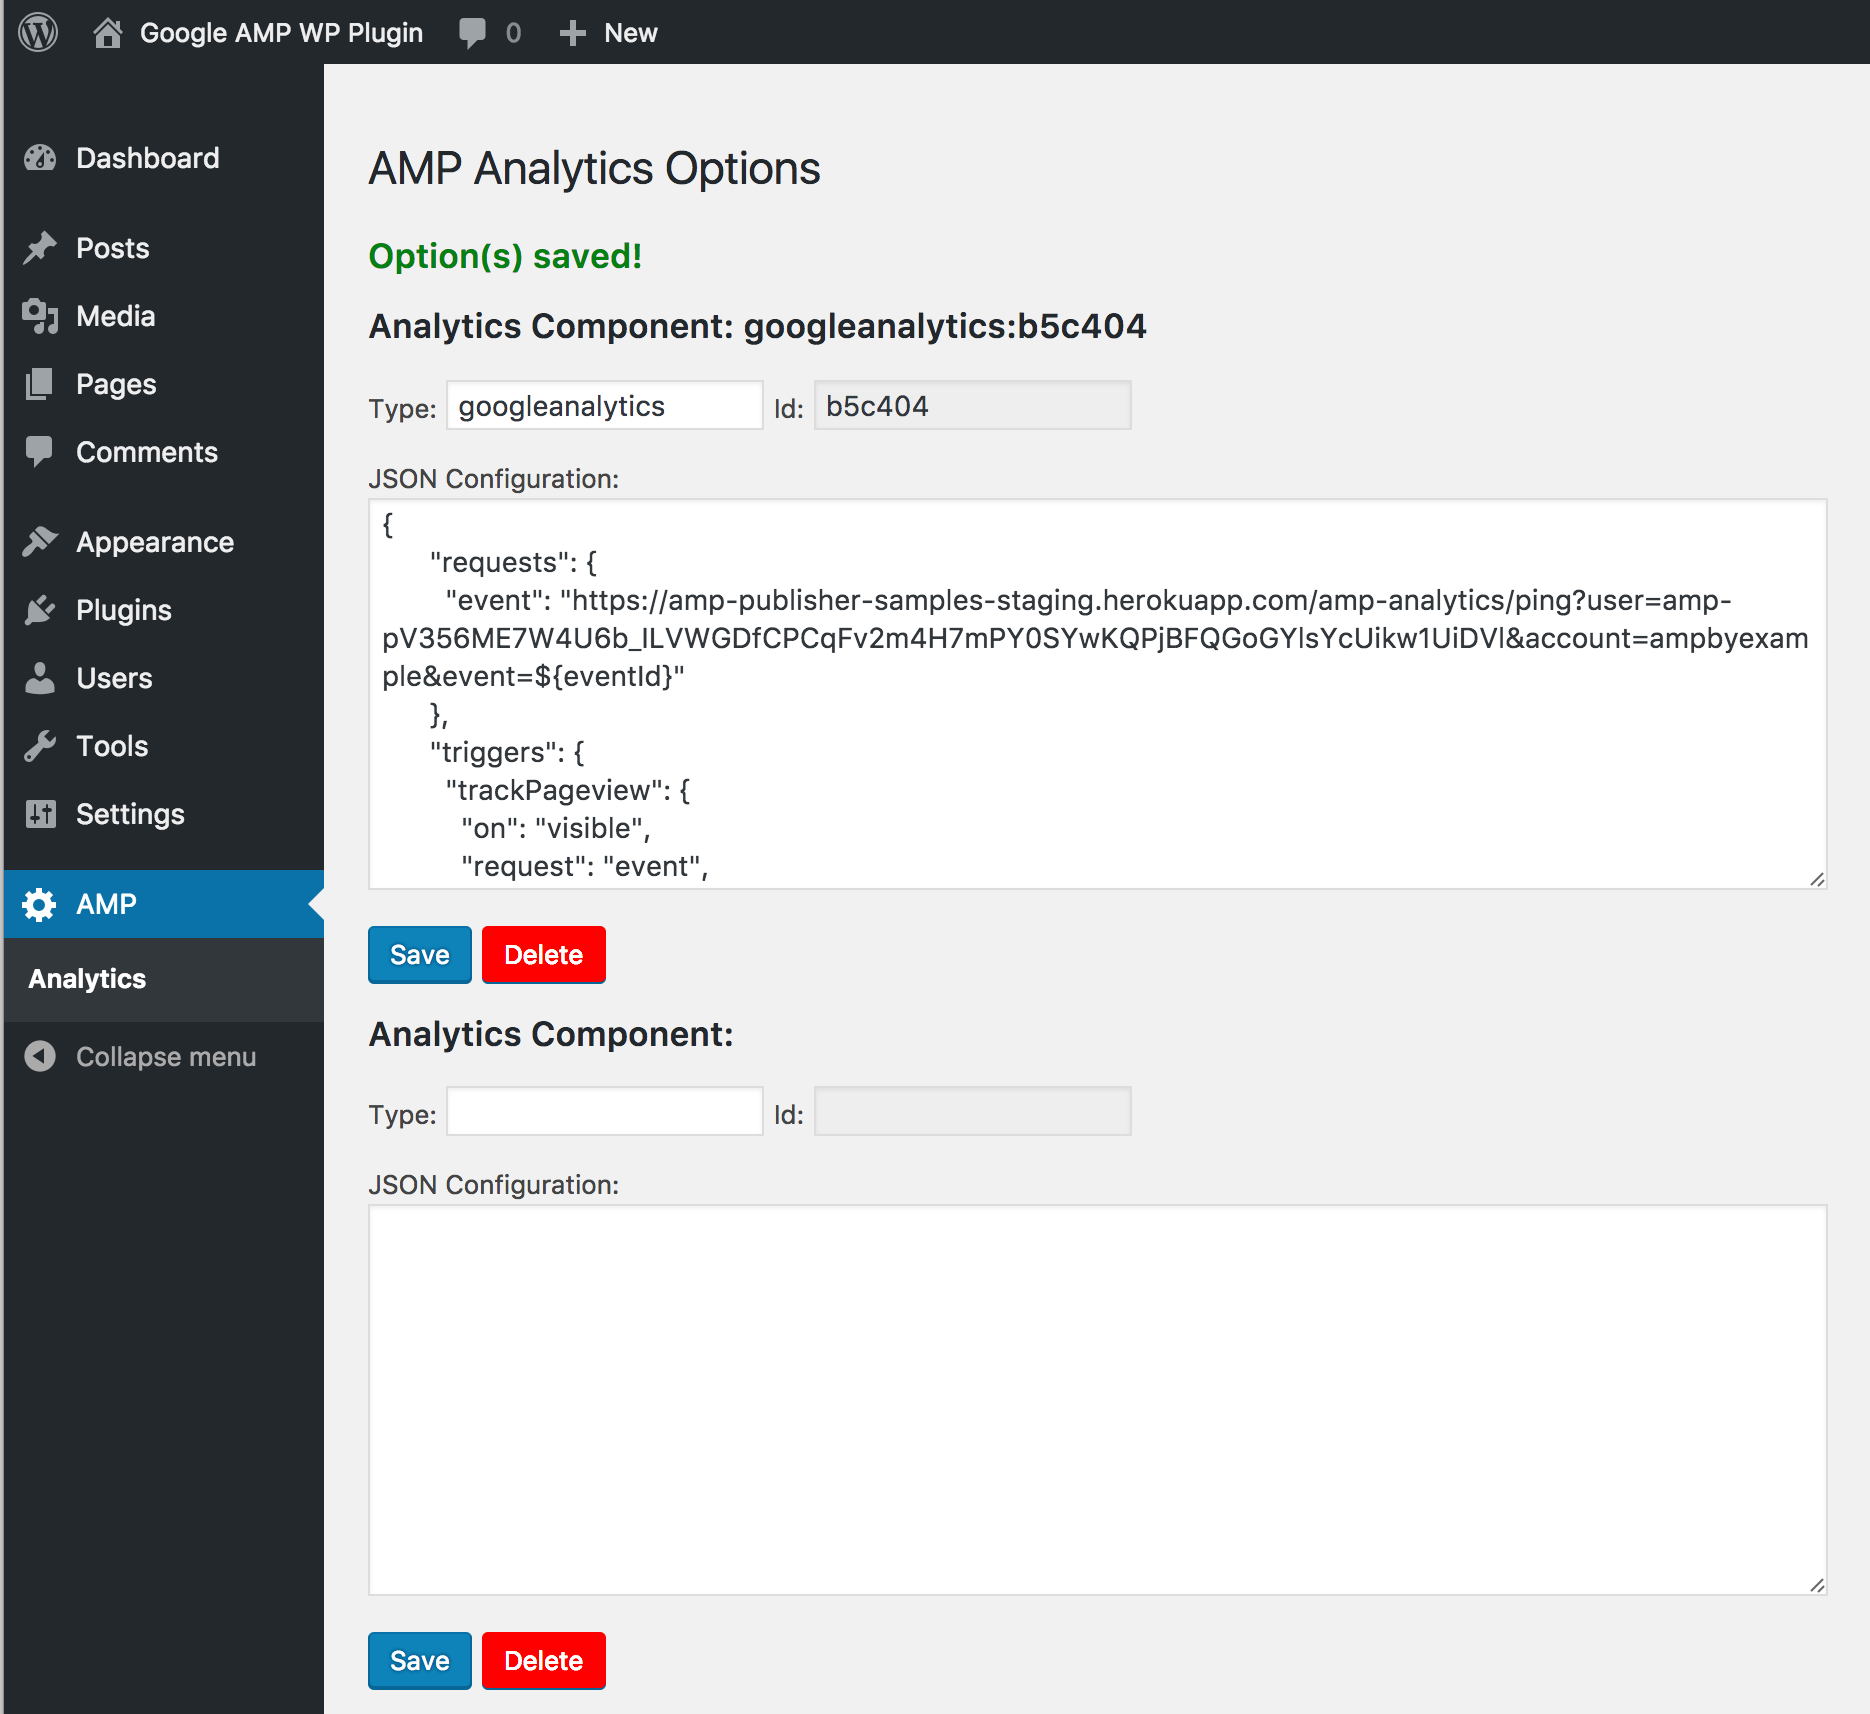
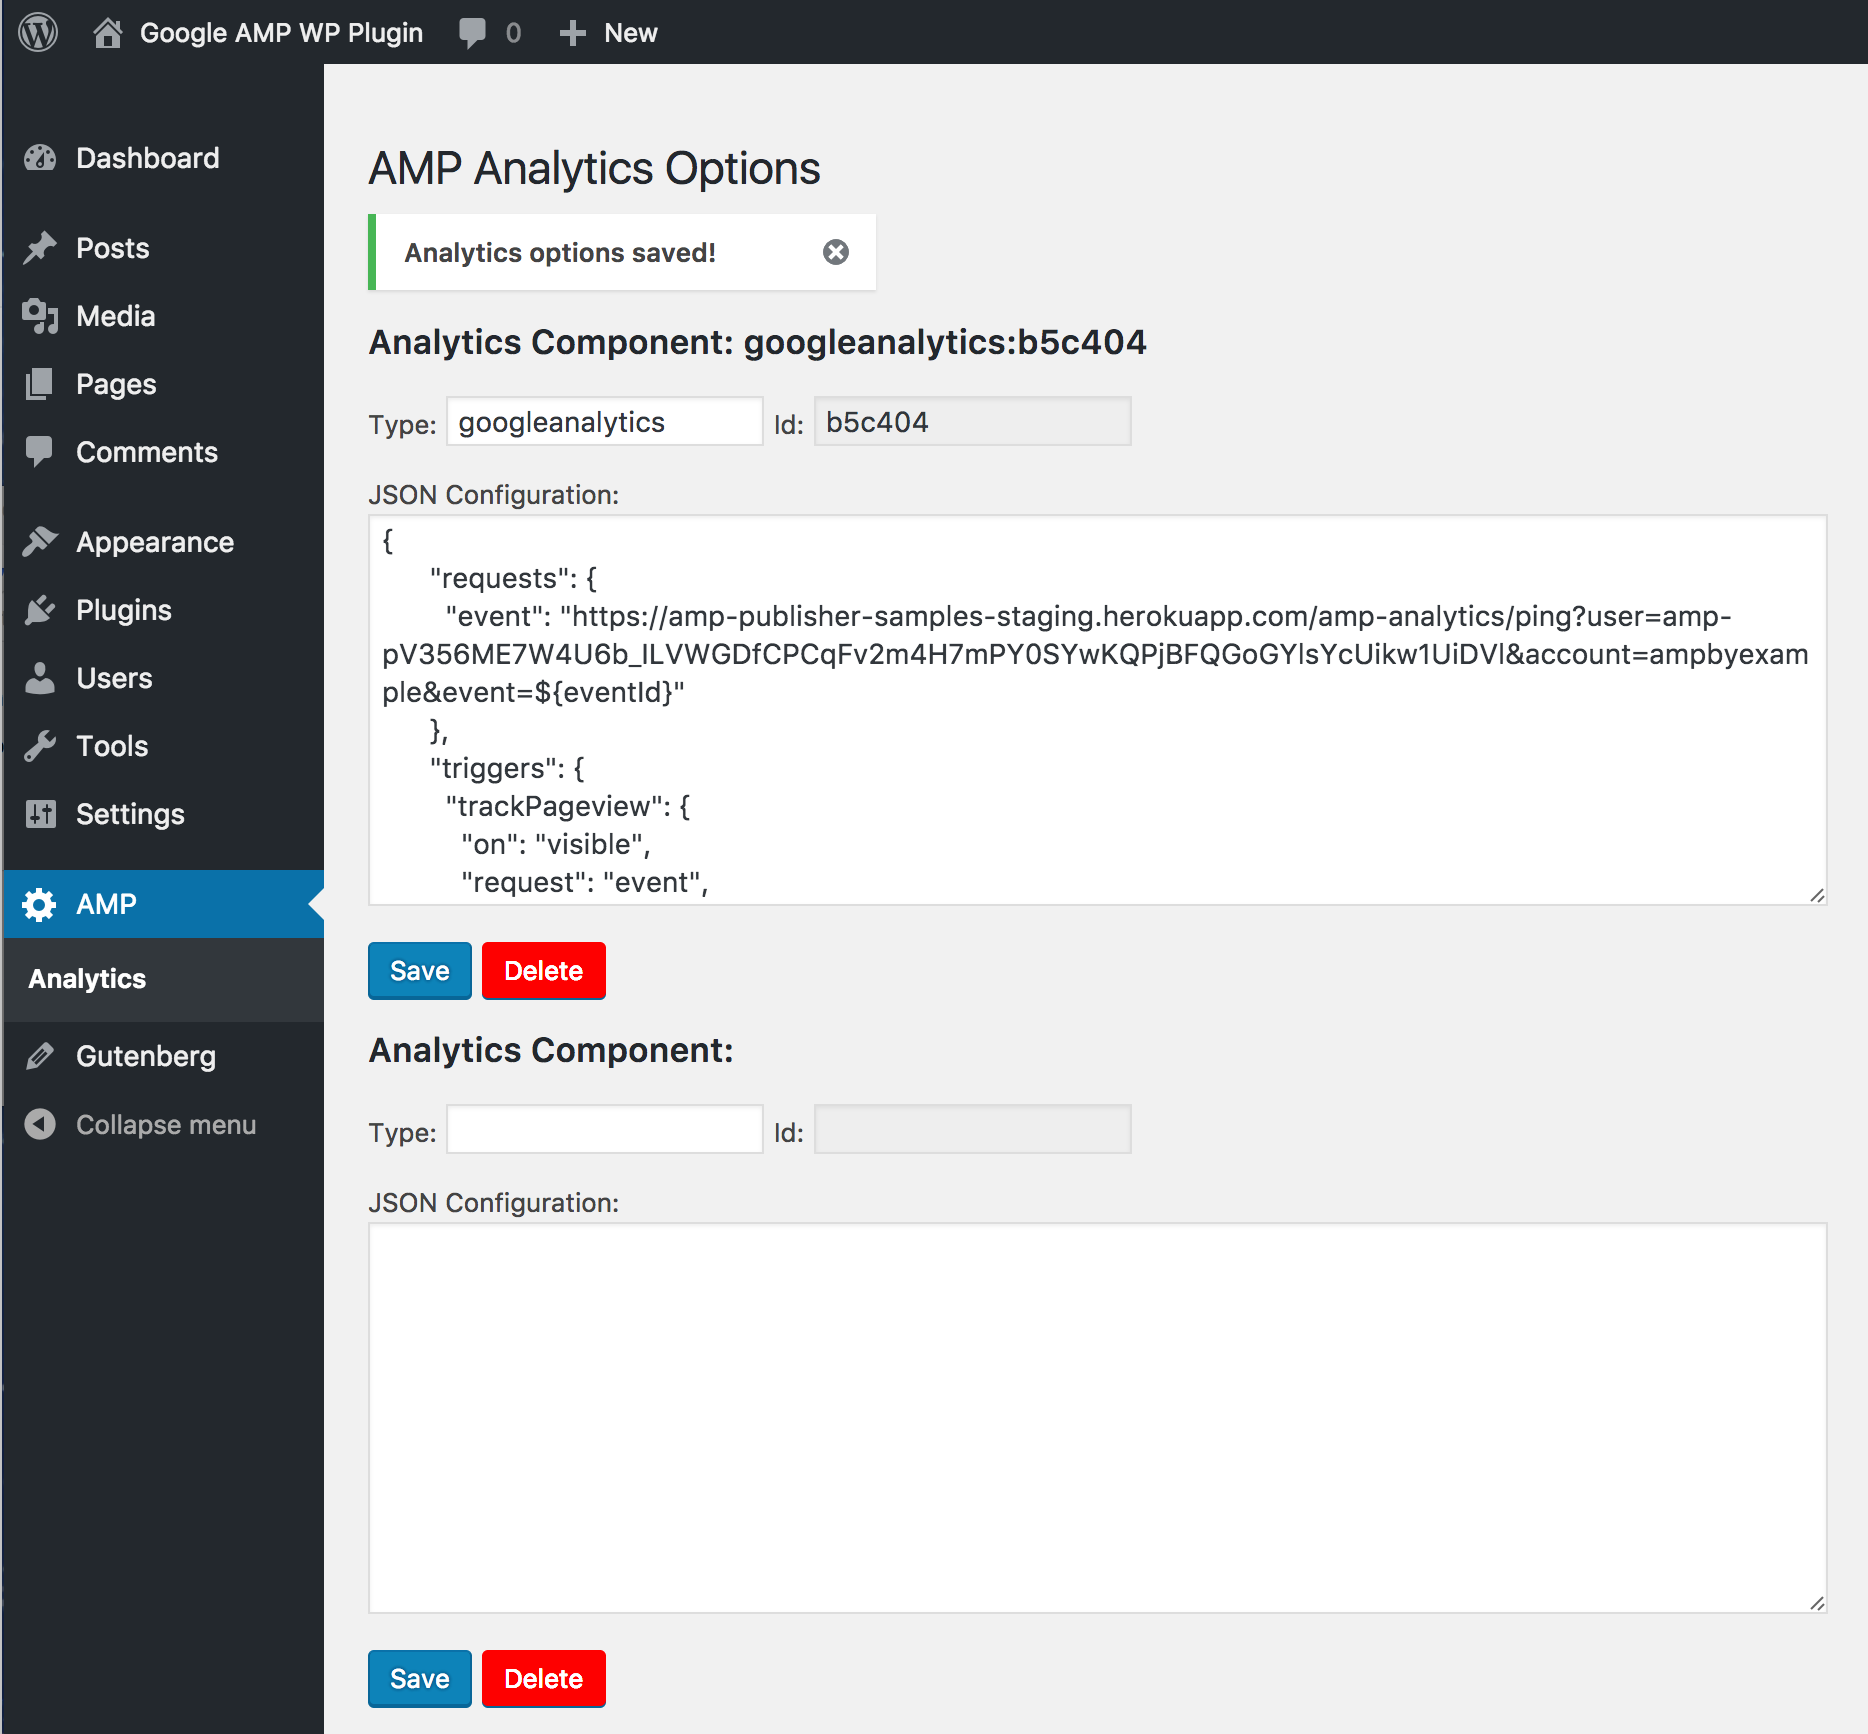
Address Mo's latest review

diff --git a/includes/options/views/class-amp-analytics-options-submenu-page.php b/includes/options/views/class-amp-analytics-options-submenu-page.php
@@ -1,34 +1,34 @@
 <?php
 
-require_once( AMP__DIR__ . '/includes/options/views/class-amp-analytics-options-serializer.php' );
+require_once( AMP__DIR__ . '/includes/options/views/class-amp-options-manager.php' );
 
 class AMP_Analytics_Options_Submenu_Page {
 
-	private function render_option($id = "", $type = "", $config = "") {
+	private function render_option( $id = "", $type = "", $config = "" ) {
 			?>
 			<div class="analytics-data-container">
-				<form method="post" action="<?php echo esc_html( admin_url( 'admin-post.php' ) ); ?>">
-					<h2><?php echo __( 'Analytics Component', 'amp' ) ?>: <?php echo ($type ? $type . ':' : '') . substr($id, -6) ?></h2>
+				<form method="post" action="<?php echo esc_url( admin_url( 'admin-post.php' ) ); ?>">
+					<h2><?php echo __( 'Analytics Component', 'amp' ) ?>: <?php echo ($type ? esc_html( $type ) . ':' : '') . substr( esc_html( $id ), -6) ?></h2>
 					<div class="options">
 						<p>
 							<label><?php echo __( 'Type', 'amp' ) ?>: </label>
 							<input class="option-input" type="text" name=vendor-type value="<?php echo esc_attr( $type ); ?>" />
 							<label><?php echo __( 'Id', 'amp' ) ?>: </label>
-							<input type="text" name=id value="<?php echo substr(esc_attr( $id ), -6); ?>" readonly />
-                            <input type="hidden" name=id-value value="<?php echo $id; ?>" />
+							<input type="text" name=id value="<?php echo esc_attr( substr( $id, -6) ); ?>" readonly />
+                            <input type="hidden" name=id-value value="<?php echo esc_attr( $id ); ?>" />
 						</p>
 						<p>
 							<label><?php echo __( 'JSON Configuration', 'amp' ) ?>:</label>
 							<br />
 							<textarea rows="10" cols="100" name="config"><?php echo esc_textarea( $config ); ?></textarea>
 						</p>
-						<input type="hidden" name="action" value="analytics_options">
+						<input type="hidden" name="action" value="amp_analytics_options">
 					</div><!-- #analytics-data-container -->
 				<p>
 			<?php
-			    wp_nonce_field( 'analytics-options', 'analytics-options');
-				submit_button('Save', 'primary', 'save', false);
-				submit_button('Delete', 'delete button-primary', 'delete', false);
+			    wp_nonce_field( 'analytics-options', 'analytics-options' );
+				submit_button( 'Save', 'primary', 'save', false );
+				submit_button( 'Delete', 'delete button-primary', 'delete', false );
 				?>
 				</p>
 				</form>
@@ -47,11 +47,21 @@ class AMP_Analytics_Options_Submenu_Page {
 		if ( isset( $_GET['valid'] ) ) {
             if ( ! esc_attr( $_GET['valid'] ) ) {
                 ?>
-                <h3 style='color:red'><?php echo 'Action not taken: invalid input!'; ?></h3>
+                <div class="amp-analytics-options notice notice-error is-dismissible">
+                    <p><strong>Action not taken: invalid input!</strong></p>
+                    <button type="button" class="notice-dismiss">
+                        <span class="screen-reader-text">Dismiss this notice.</span>
+                    </button>
+                </div>
                 <?php
             } else {
                 ?>
-                <h3 style='color:green'><?php echo 'Option(s) saved!'; ?></h3>
+                <div class="amp-analytics-options notice notice-success is-dismissible">
+                    <p><strong>Analytics options saved!</strong></p>
+                    <button type="button" class="notice-dismiss">
+                        <span class="screen-reader-text">Dismiss this notice.</span>
+                    </button>
+                </div>
                 <?php
             }
             unset( $_GET['valid'] );
@@ -64,7 +74,7 @@ class AMP_Analytics_Options_Submenu_Page {
 
 		$amp_options = get_option('amp-options');
 		if ( $amp_options ) {
-			$analytics_options = $amp_options[ 'amp-analytics'];
+			$analytics_options = $amp_options['amp-analytics'];
 		}
 		if ( $analytics_options ) {
 			foreach ( $analytics_options as $option ) {

diff --git a/includes/options/views/class-amp-options-manager.php b/includes/options/views/class-amp-options-manager.php
@@ -2,52 +2,59 @@
 
 require_once( AMP__DIR__ . '/includes/utils/class-amp-html-utils.php' );
 
-class Analytics_Options_Serializer {
-
+class AMP_Options_Manager {
+	
 	public static function save() {
-
-		if ( is_admin() ) {
-			// Request must come from user with right capabilities
-			if ( ! current_user_can( 'administrator' ) ) {
-				wp_die( 'Sorry, you do not have the necessary permissions to perform this action' );
-			}
-			// Ensure request is coming from analytics option form
-			check_admin_referer( 'analytics-options', 'analytics-options' );
+		// Request must come from user with right capabilities
+		if ( ! current_user_can( 'manage_options' ) ) {
+			wp_die( 'Sorry, you do not have the necessary permissions to perform this action' );
 		}
+		// Ensure request is coming from analytics option form
+		check_admin_referer( 'analytics-options', 'analytics-options' );
 
+		$status = AMP_Options_Manager::submit( $_POST );
+		
+		// Redirect to keep the user in the analytics options page
+		// Wrap in is_admin() to enable phpunit tests to exercise this code
+		wp_redirect( admin_url( 'admin.php?page=amp-analytics-options&valid=' . $status  ) );
+		exit;
+	}
+	
+	public static function submit( $data) {
+		
 		$option_name = 'amp-analytics';
-
+		
 		// Validate JSON configuration is valid
-		$is_valid_json = AMP_HTML_Utils::valid_json( stripslashes($_POST['config'] ) );
-
+		$is_valid_json = AMP_HTML_Utils::valid_json( stripslashes( $_POST['config'] ) );
+		
 		// Check save/delete pre-conditions and proceed if correct
 		if ( ! ( empty( $_POST['vendor-type'] ) || empty( $_POST['config'] ) ) &&
-				$is_valid_json ) {
-
+		     $is_valid_json ) {
+			
 			if ( empty( $_POST['id-value'] ) ) {
 				$_POST['id-value'] = md5( $_POST['config'] );
 			}
-
+			
 			// Prepare the data for the new analytics setting
 			$new_analytics_option = array(
-				$_POST['id-value'],
-				sanitize_key($_POST['vendor-type']),
+				sanitize_key( $_POST['id-value'] ),
+				sanitize_key( $_POST['vendor-type'] ),
 				stripslashes( $_POST['config'] )
 			);
 			// Identifier for analytics option
 			$inner_option_name = sanitize_key($_POST['vendor-type'] . '-' . $_POST['id-value'] );
-
+			
 			// Grab the amp_options from the DB
 			$amp_options = get_option( 'amp-options' );
 			if ( ! $amp_options ) {
 				$amp_options = array();
 			}
-
+			
 			// Grab the amp-analytics options
 			$amp_analytics = isset($amp_options[ $option_name ])
 				? $amp_options[ $option_name ]
 				: array();
-
+			
 			if ( isset( $_POST['delete'] ) ) {
 				unset( $amp_analytics[ $inner_option_name ] );
 			} else {
@@ -55,12 +62,10 @@ class Analytics_Options_Serializer {
 			}
 			$amp_options[ $option_name ] = $amp_analytics;
 			update_option( 'amp-options' , $amp_options, false );
+
+			return true;
 		}
-		// Redirect to keep the user in the analytics options page
-		// Wrap in is_admin() to enable phpunit tests to exercise this code
-		if ( is_admin() ) {
-			wp_redirect( admin_url( 'admin.php?page=amp-analytics-options&valid=' . $is_valid_json  ) );
-			exit;
-		}
+
+		return false;
 	}
 }

diff --git a/tests/test-amp-analytics-options.php b/tests/test-amp-analytics-options.php
@@ -43,14 +43,14 @@ class AMP_Analytics_Options_Test extends WP_UnitTestCase {
 	private $serializer;
 
 	public function setUp() {
-		$this->serializer = new Analytics_Options_Serializer();
+		$this->serializer = new AMP_Options_Manager();
 	}
 
 	private function get_options() {
 		$analytics_options = false;
 		$amp_options = get_option('amp-options');
 		if ( $amp_options ) {
-			$analytics_options = $amp_options[ 'amp-analytics'];
+			$analytics_options = $amp_options['amp-analytics'];
 		}
 
 		return $analytics_options;
@@ -68,12 +68,12 @@ class AMP_Analytics_Options_Test extends WP_UnitTestCase {
 		return $amp_rendered;
 	}
 
-	private function insert_one_option($vendor, $config) {
+	private function insert_one_option( $vendor, $config ) {
 		global $_POST;
 		$_POST['id-value'] = '';
 		$_POST['vendor-type'] = $vendor;
 		$_POST['config'] = $config;
-		$this->serializer->save();
+		$this->serializer->submit( $_POST );
 	}
 
 	/**
@@ -99,7 +99,7 @@ class AMP_Analytics_Options_Test extends WP_UnitTestCase {
 		);
 		$options = $this->get_options();
 
-		$this->assertEquals( 1, count($options) );
+		$this->assertEquals( 1, count( $options ) );
 	}
 
 	/**
@@ -123,7 +123,7 @@ class AMP_Analytics_Options_Test extends WP_UnitTestCase {
 		);
 		$options = $this->get_options();
 
-		$this->assertEquals( 2, count($options) );
+		$this->assertEquals( 2, count( $options ) );
 	}
 
 	/**
@@ -151,13 +151,13 @@ class AMP_Analytics_Options_Test extends WP_UnitTestCase {
 		$head = $dom->getElementsByTagName( 'head' )->item(0);
 		$scripts = $head->getElementsByTagName( 'script');
 		$analytics_js_found = false;
-		foreach ( $scripts as $script) {
+		foreach ( $scripts as $script ) {
 			if ($script->getAttribute( 'custom-element') == "amp-analytics" ) {
 				$analytics_js_found = true;
 				break;
 			}
 		}
-		$this->AssertTrue($analytics_js_found);
+		$this->AssertTrue( $analytics_js_found );
 
 	}
 
@@ -218,7 +218,7 @@ class AMP_Analytics_Options_Test extends WP_UnitTestCase {
 		$dom->loadHTML( $amp_rendered );
 		$components = $dom->getElementsByTagName( 'amp-analytics' );
 		// Two amp-analytics components should be in the page
-		$this->assertEquals(2, $components->length );
+		$this->assertEquals( 2, $components->length );
 
 		libxml_clear_errors();
 		libxml_use_internal_errors( $libxml_previous_state );

diff --git a/includes/admin/functions.php b/includes/admin/functions.php
@@ -2,7 +2,7 @@
 // Callbacks for adding AMP-related things to the admin.
 
 require_once( AMP__DIR__ . '/includes/options/class-amp-options-menu.php' );
-require_once( AMP__DIR__ . '/includes/options/views/class-amp-analytics-options-serializer.php' );
+require_once ( AMP__DIR__ . '/includes/options/views/class-amp-options-manager.php' );
 
 define( 'AMP_CUSTOMIZER_QUERY_VAR', 'customize_amp' );
 
@@ -80,9 +80,8 @@ function amp_add_options_menu() {
 	$amp_options = new AMP_Options_Menu();
 	$amp_options->init();
 }
-add_action('admin_menu','amp_add_options_menu');
-// Action to trigger analytics options serializer on analytics option's save
-add_action( 'admin_post_analytics_options', 'Analytics_Options_Serializer::save' );
+add_action( 'admin_menu', 'amp_add_options_menu' );
+add_action( 'admin_post_amp_analytics_options', 'AMP_Options_Manager::save' );
 
 
 /**
@@ -99,7 +98,7 @@ function amp_get_analytics_component_fields($option) {
 	$fields['type'] = $type;
 	$fields['attributes'] = array();
 
-	$analytics_json = json_decode(  $config , true );
+	$analytics_json = json_decode( $config , true );
 	$fields['config_data'] = $analytics_json;
 
 	return $fields;
@@ -107,9 +106,9 @@ function amp_get_analytics_component_fields($option) {
 
 
 function amp_add_custom_analytics() {
-	$amp_options = get_option('amp-options');
+	$amp_options = get_option( 'amp-options' );
 	if ( $amp_options ) {
-		$analytics_options = $amp_options[ 'amp-analytics'];
+		$analytics_options = $amp_options['amp-analytics'];
 	}
 
 	if ( ! $analytics_options )
@@ -117,13 +116,10 @@ function amp_add_custom_analytics() {
 
 	$analytics = array();
 	foreach ( $analytics_options as $option ) {
-		$fields = amp_get_analytics_component_fields($option);
-		$analytics[$fields['id']] = $fields;
+		$fields = amp_get_analytics_component_fields( $option );
+		$analytics[ $fields['id'] ] = $fields;
 	}
 
 	return $analytics;
 }
 add_filter( 'amp_post_template_analytics', 'amp_add_custom_analytics' );
-
-
-

diff --git a/includes/options/class-amp-options-menu.php b/includes/options/class-amp-options-menu.php
@@ -2,7 +2,7 @@
 
 require_once( AMP__DIR__ . '/includes/options/class-amp-analytics-options-submenu.php' );
 require_once( AMP__DIR__ . '/includes/options/views/class-amp-options-menu-page.php' );
-require_once( AMP__DIR__ . '/includes/options/views/class-amp-analytics-options-serializer.php' );
+require_once ( AMP__DIR__ . '/includes/options/views/class-amp-options-manager.php' );
 
 class AMP_Options_Menu {
 
@@ -18,8 +18,8 @@ class AMP_Options_Menu {
 		$submenus = array(
 			new AMP_Analytics_Options_Submenu( $this->menu_slug ),
 		);
-		$this->add_amp_options_menu($submenus);
-		add_action( 'admin_menu', array($this, 'amp_remove_toplevel_menu_item'), 9999 );
+		$this->add_amp_options_menu( $submenus );
+		add_action( 'admin_menu', array( $this, 'amp_remove_toplevel_menu_item' ), 9999 );
 	}
 
 	// Helper function to avoid having the top-level menu as
@@ -44,8 +44,8 @@ class AMP_Options_Menu {
 			array( $this->menu_page, 'render' )
 		);
 
-		foreach ($submenus as $submenu) {
-			$submenu->init($this->menu_slug);
+		foreach ( $submenus as $submenu ) {
+			$submenu->init( $this->menu_slug );
 		}
 	}
 }

diff --git a/includes/options/class-amp-analytics-options-submenu.php b/includes/options/class-amp-analytics-options-submenu.php
@@ -30,7 +30,7 @@ class AMP_Analytics_Options_Submenu {
 			__( 'Analytics', 'amp' ),
 			'manage_options',
 			$this->menu_slug,
-			array($this->menu_page, 'render')
+			array( $this->menu_page, 'render' )
 		);
 	}
 
@@ -42,6 +42,9 @@ class AMP_Analytics_Options_Submenu {
 				border-color: red;
 				text-shadow: 0 0 0;
 				margin: 0 5px;
+			}
+			.amp-analytics-options.notice {
+				width: 200px;
 			}
 		</style>;
 

diff --git a/includes/utils/class-amp-html-utils.php b/includes/utils/class-amp-html-utils.php
@@ -19,9 +19,9 @@ class AMP_HTML_Utils {
 	}
 
 	public static function valid_json( $data ) {
-		if (!empty($data)) {
-			@json_decode($data);
-			return (json_last_error() === JSON_ERROR_NONE);
+		if (!empty( $data )) {
+			@json_decode( $data );
+			return ( json_last_error() === JSON_ERROR_NONE );
 		}
 		return false;
 	}
